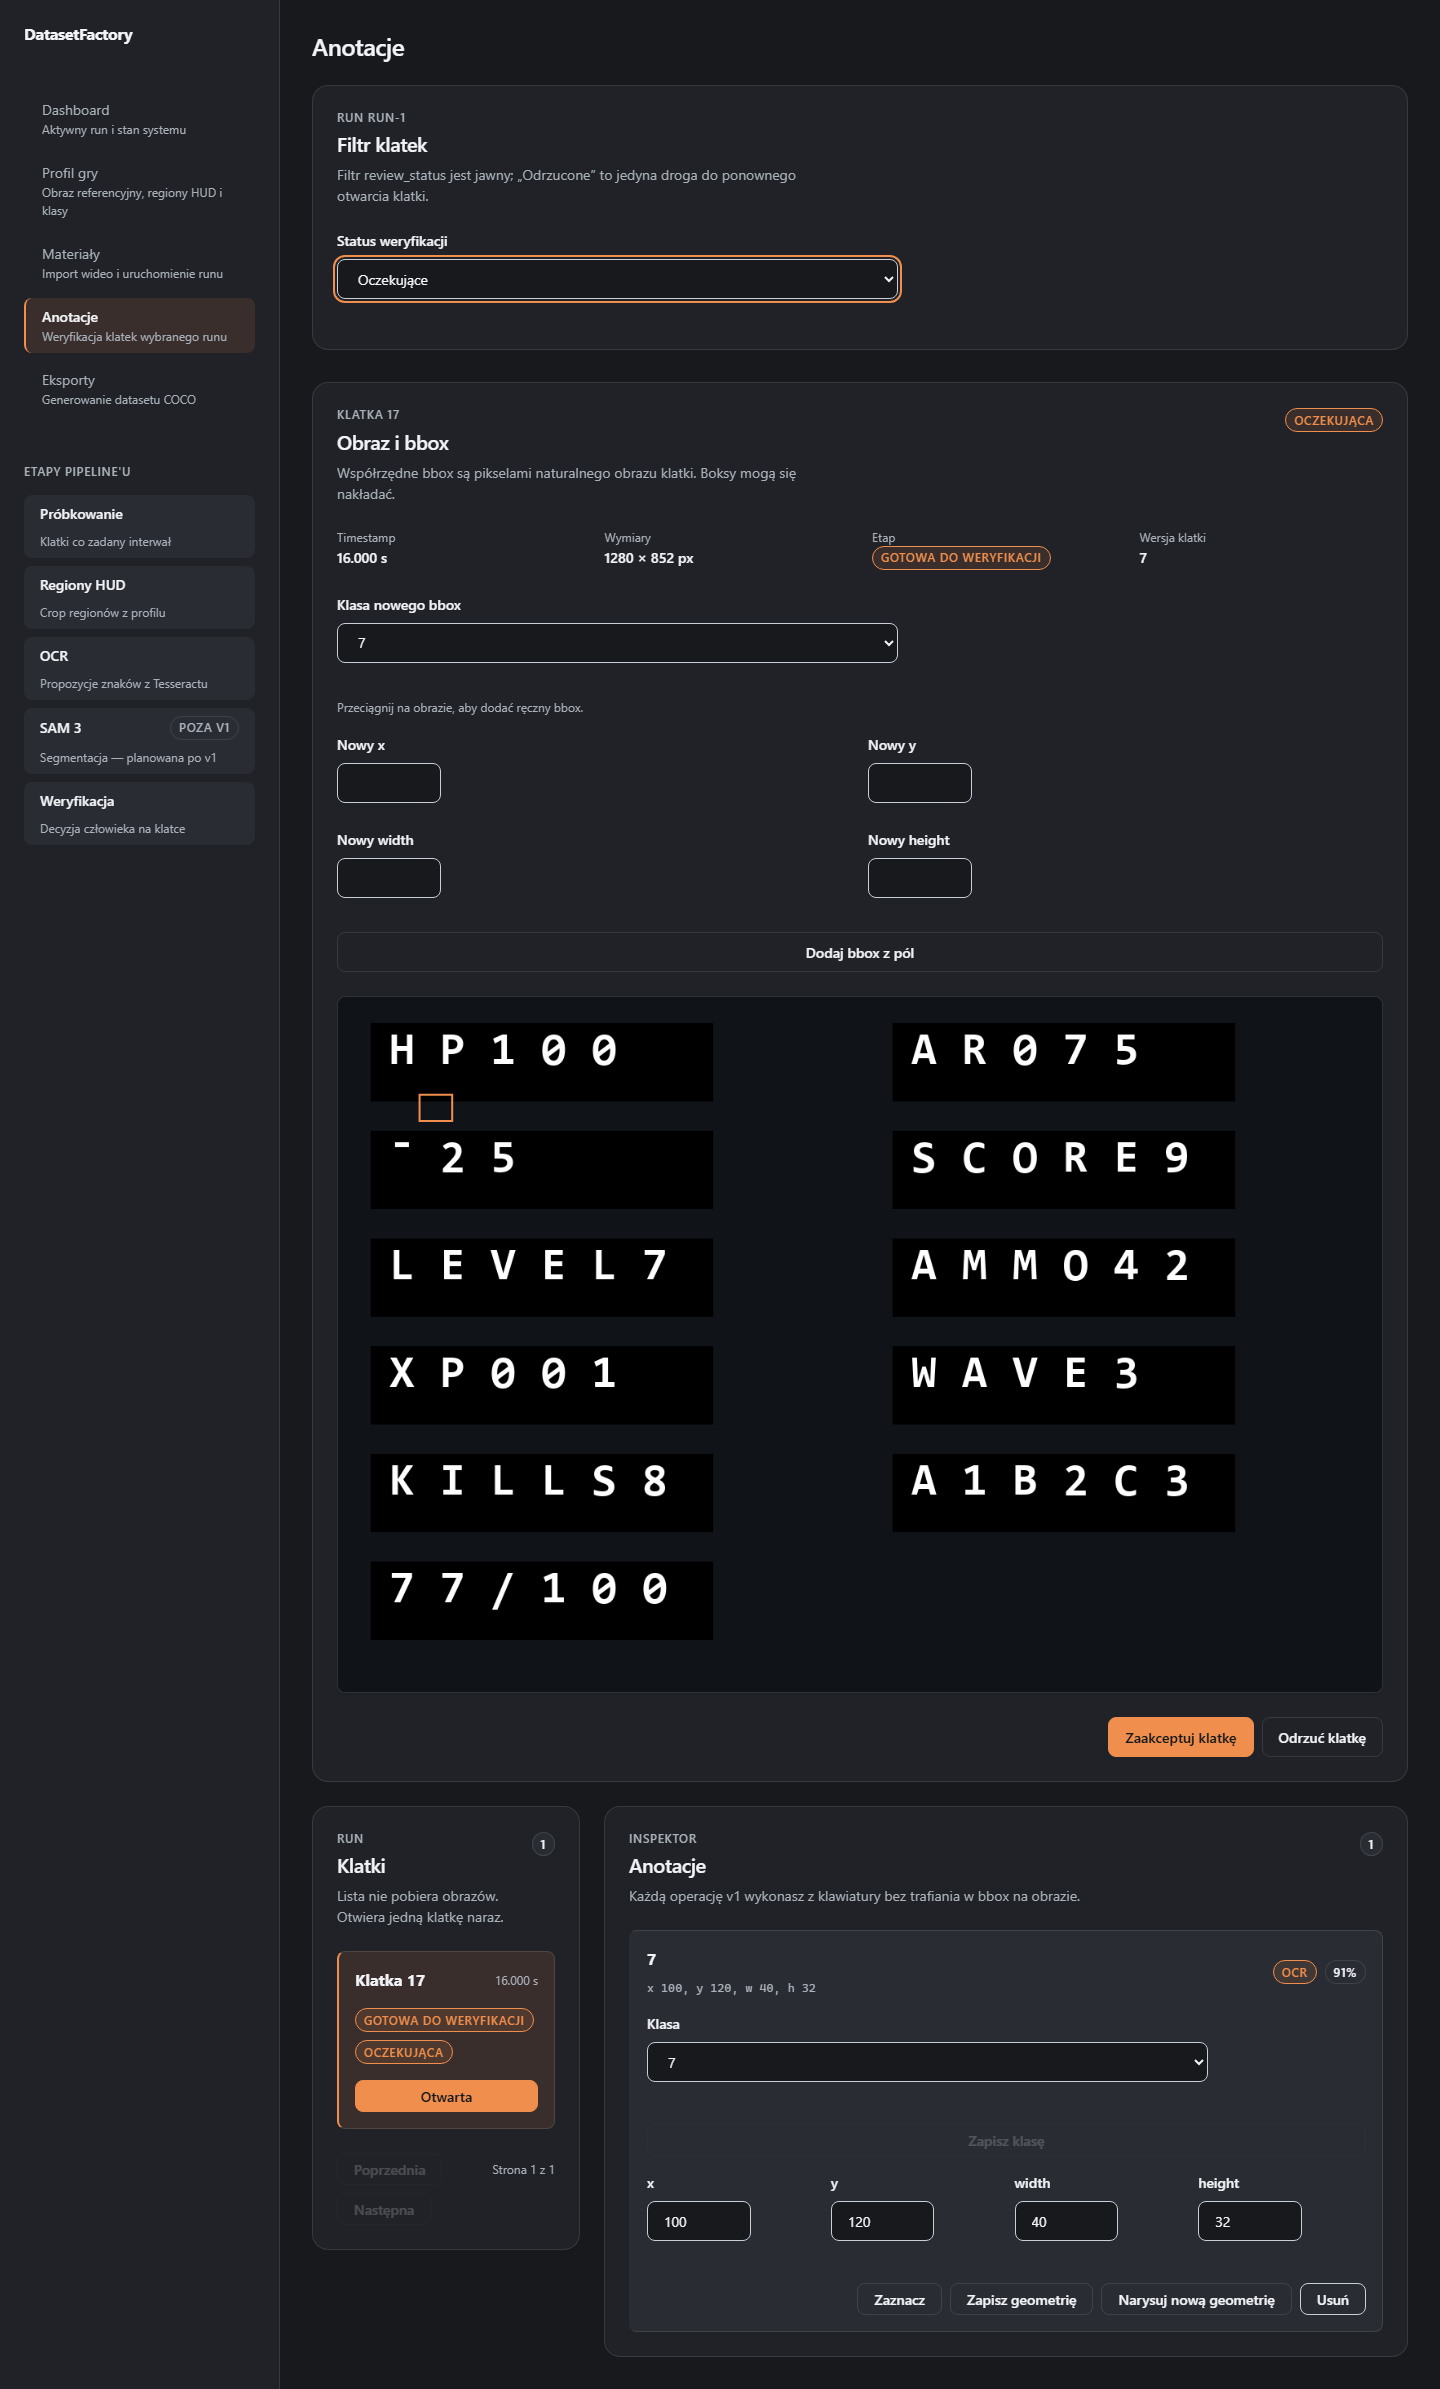
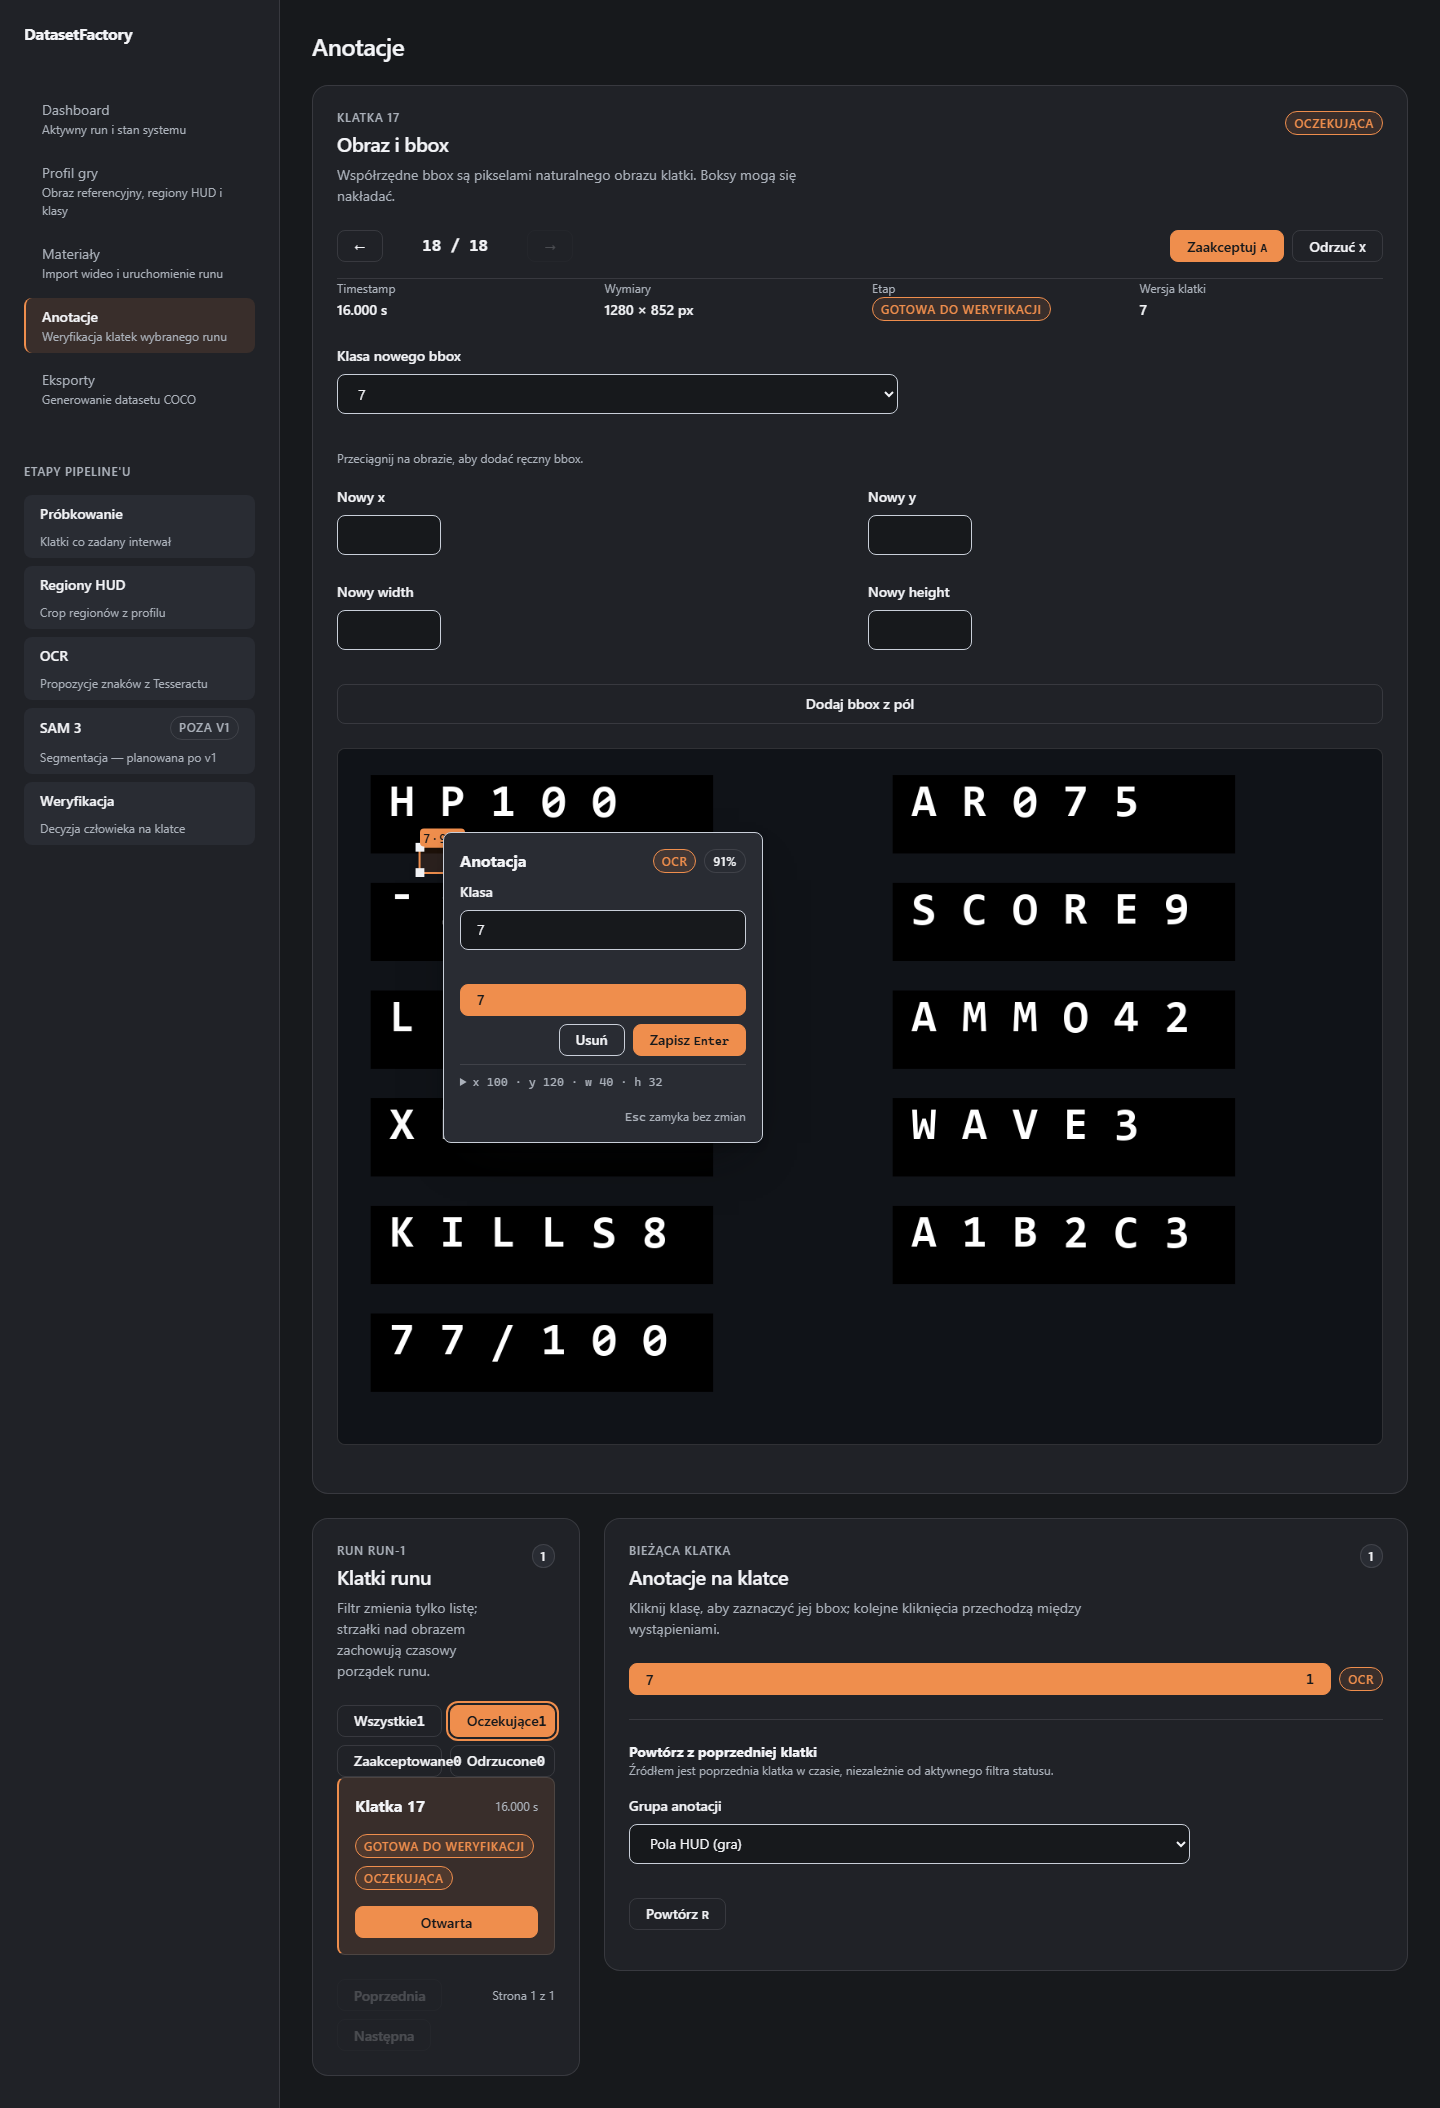
test(fe-005): refresh review visual qa

diff --git a/frontend/src/components/common/RegionOverlay/RegionOverlay.css b/frontend/src/components/common/RegionOverlay/RegionOverlay.css
@@ -164,6 +164,9 @@
 }
 
 .df-region-overlay__label {
+  --df-overlay-label-top: 0%;
+  --df-overlay-label-left: 0%;
+
   position: absolute;
   top: var(--df-overlay-label-top);
   left: var(--df-overlay-label-left);
